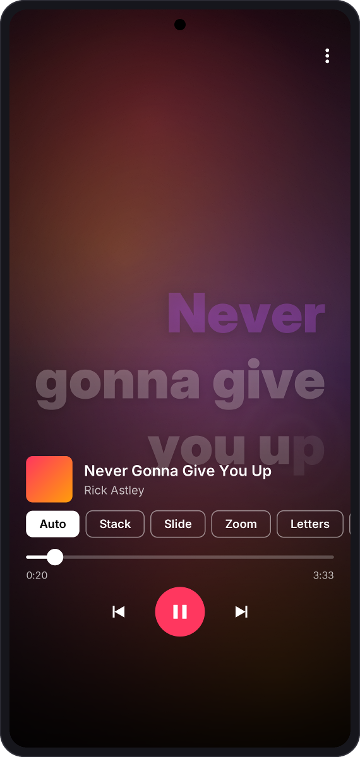
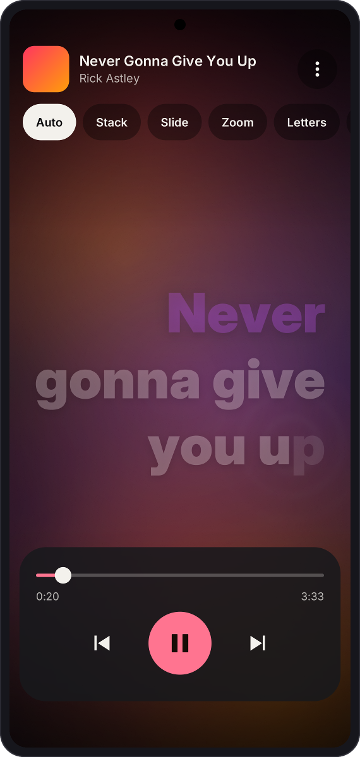
README: fixed latest-APK link and new controls and settings mockups
Releases now also carry the APK as LyricStage.apk, so
releases/latest/download/LyricStage.apk always serves the newest
version; an existing release without it gets the copy on the next
workflow run. The README links there. The controls and settings
mockups are redrawn in the new design with Never Gonna Give You Up
playing.

Claude-Session: https://claude.ai/code/session_01MLXWG1CmD9ZGWnpi2j6esJ

diff --git a/tools/screenshots/src/Render.kt b/tools/screenshots/src/Render.kt
@@ -399,91 +399,271 @@ fun renderStage(s: Shot, dim: Float = 1f): BufferedImage {
     return img
 }
 
+// colours of the screens around the stage, as in ui/theme/Ui.kt
+val UI_GROUND = Color(0x0B, 0x0B, 0x0D)
+val UI_CARD = Color(0x17, 0x18, 0x1C)
+val UI_RAISED = Color(0x26, 0x27, 0x2D)
+val UI_LINE = Color(0x3A, 0x3B, 0x42)
+val UI_TEXT = Color(0xF3, 0xF1, 0xEC)
+val UI_MUTED = Color(0xA7, 0xA6, 0xAE)
+val UI_ON_ACCENT = Color(0x16, 0x0C, 0x07)
+
+/** The UI accent, as Ui.accent(): the album's first accent, lifted when too dark for dark text. */
+fun uiAccent(pal: Pal): Color {
+    val c = pal.accents[0]
+    val l = Colour.luminance(c).toFloat()
+    if (l >= 0.35f) return hex(c)
+    val t = ((0.35f - l) / 0.65f + 0.15f).coerceIn(0f, 0.7f)
+    return Color(
+        (Colour.red(c) + (255 - Colour.red(c)) * t).toInt(),
+        (Colour.green(c) + (255 - Colour.green(c)) * t).toInt(),
+        (Colour.blue(c) + (255 - Colour.blue(c)) * t).toInt(),
+    )
+}
+
+private fun Graphics2D.pill(x: Float, y: Float, w: Float, h: Float, fill: Color?, stroke: Color? = null, dp: Float = 2.625f) {
+    val r = RoundRectangle2D.Float(x, y, w, h, h, h)
+    if (fill != null) { color = fill; fill(r) }
+    if (stroke != null) { color = stroke; this.stroke = BasicStroke(1f * dp); draw(r) }
+}
+
+private fun Graphics2D.centred(text: String, cx: Float, baseline: Float) {
+    drawString(text, cx - fontMetrics.stringWidth(text) / 2f, baseline)
+}
+
+private fun Graphics2D.moreDots(cx: Float, cy: Float, dp: Float, c: Color) {
+    color = c
+    for (i in -1..1) fill(Ellipse2D.Float(cx - 2.2f * dp, cy + i * 7 * dp - 2.2f * dp, 4.4f * dp, 4.4f * dp))
+}
+
+/** Artwork stand-in: the album's accents, as a soft square. */
+private fun Graphics2D.art(x: Float, y: Float, size: Float, radius: Float, pal: Pal) {
+    paint = GradientPaint(x, y, hex(pal.accents[0]), x + size, y + size, hex(pal.accents[1]))
+    fill(RoundRectangle2D.Float(x, y, size, size, radius, radius))
+}
+
 /** Controls overlay, drawn to the same proportions as ControlsOverlay.kt (2.625 px per dp). */
 fun renderControls(base: BufferedImage, pal: Pal): BufferedImage {
     val dp = 2.625f
+    val accent = uiAccent(pal)
     val img = BufferedImage(W, H, BufferedImage.TYPE_INT_ARGB)
     val g = img.createGraphics()
     g.hq()
     g.drawImage(base, 0, 0, null)
-    g.paint = GradientPaint(0f, H * 0.45f, Color(0, 0, 0, 0), 0f, H.toFloat(), Color(0, 0, 0, 217))
-    g.fillRect(0, 0, W, H)
-    val pad = 20 * dp
-    // settings menu: three dots in the top right, as in MoreButton
-    g.color = Color.WHITE
-    val dotR = 2.2f * dp
-    val dx = W - 8 * dp - 8 * dp - 12 * dp
-    for (i in 0..2) {
-        val cy = 24 * dp + 8 * dp + 24 * dp * (0.22f + i * 0.28f) + 12 * dp
-        g.fill(Ellipse2D.Float(dx - dotR, cy - dotR, dotR * 2, dotR * 2))
-    }
-    var y = H - 72 * dp - 280 * dp
+    g.paint = GradientPaint(0f, 0f, Color(0, 0, 0, 140), 0f, H * 0.3f, Color(0, 0, 0, 0))
+    g.fillRect(0, 0, W, (H * 0.3f).toInt())
+    g.paint = GradientPaint(0f, H * 0.7f, Color(0, 0, 0, 0), 0f, H.toFloat(), Color(0, 0, 0, 115))
+    g.fillRect(0, (H * 0.7f).toInt(), W, H - (H * 0.7f).toInt())
 
-    // artwork thumb, title, artist, settings
-    val thumb = 56 * dp
-    g.paint = GradientPaint(pad, y, hex(pal.accents[0]), pad + thumb, y + thumb, hex(pal.accents[1]))
-    g.fill(RoundRectangle2D.Float(pad, y, thumb, thumb, 16 * dp, 16 * dp))
-    g.color = Color.WHITE
-    g.font = fSemi.deriveFont(18 * dp)
-    g.drawString("Never Gonna Give You Up", pad + thumb + 14 * dp, y + 24 * dp)
-    g.color = Color(255, 255, 255, 178)
+    // top: artwork, title, artist, settings
+    val pad = 16 * dp
+    var y = 44 * dp
+    g.art(pad, y, 56 * dp, 28 * dp, pal)
+    g.color = UI_TEXT
+    g.font = fSemi.deriveFont(17 * dp)
+    g.drawString("Never Gonna Give You Up", pad + 68 * dp, y + 24 * dp)
+    g.color = Color(0xF3, 0xF1, 0xEC, 184)
     g.font = fRegular.deriveFont(14 * dp)
-    g.drawString("Rick Astley", pad + thumb + 14 * dp, y + 46 * dp)
-    y += thumb + 10 * dp
+    g.drawString("Rick Astley", pad + 68 * dp, y + 44 * dp)
+    g.color = Color(0, 0, 0, 90)
+    g.fill(Ellipse2D.Float(W - pad - 48 * dp, y + 4 * dp, 48 * dp, 48 * dp))
+    g.moreDots(W - pad - 24 * dp, y + 28 * dp, dp, UI_TEXT)
+    y += 56 * dp + 14 * dp
 
-    // template chips
+    // layout pills
     var x = pad
-    y += 16 * dp
     g.font = fSemi.deriveFont(14 * dp)
-    for ((i, label) in listOf("Auto", "Stack", "Slide", "Zoom", "Letters", "Scatter").withIndex()) {
+    for ((i, label) in listOf("Auto", "Stack", "Slide", "Zoom", "Letters", "Scatter", "Graph").withIndex()) {
         val tw = g.fontMetrics.stringWidth(label) + 32 * dp
-        val chip = RoundRectangle2D.Float(x, y - 16 * dp, tw, 32 * dp, 16 * dp, 16 * dp)
-        if (i == 0) {
-            g.color = Color.WHITE; g.fill(chip); g.color = Color.BLACK
-        } else {
-            g.color = Color(255, 255, 255, 120); g.stroke = BasicStroke(1.2f * dp); g.draw(chip); g.color = Color.WHITE
-        }
-        g.drawString(label, x + 16 * dp, y + 5 * dp)
+        if (i == 0) g.pill(x, y, tw, 44 * dp, UI_TEXT) else g.pill(x, y, tw, 44 * dp, Color(0, 0, 0, 90))
+        g.color = if (i == 0) UI_GROUND else UI_TEXT
+        g.drawString(label, x + 16 * dp, y + 27.5f * dp)
         x += tw + 8 * dp
     }
-    y += 40 * dp
 
-
-    // seek bar
-    val trackW = W - pad * 2
+    // bottom card: seek bar, times, transport
+    val cardX = 12 * dp
+    val cardW = W - cardX * 2
+    val cardH = 186 * dp
+    val cardY = H - 36 * dp - 20 * dp - cardH
+    g.color = Color(0x17, 0x18, 0x1C, 220)
+    g.fill(RoundRectangle2D.Float(cardX, cardY, cardW, cardH, 64 * dp, 64 * dp))
+    val inX = cardX + 20 * dp
+    val trackW = cardW - 40 * dp
+    var cy = cardY + 34 * dp
     val prog = 0.094f
-    g.color = Color(255, 255, 255, 60)
-    g.fill(RoundRectangle2D.Float(pad, y - 2 * dp, trackW, 4 * dp, 4 * dp, 4 * dp))
-    g.color = Color.WHITE
-    g.fill(RoundRectangle2D.Float(pad, y - 2 * dp, trackW * prog, 4 * dp, 4 * dp, 4 * dp))
-    g.fill(Ellipse2D.Float(pad + trackW * prog - 10 * dp, y - 10 * dp, 20 * dp, 20 * dp))
-    y += 26 * dp
-    g.color = Color(255, 255, 255, 178)
-    g.font = fRegular.deriveFont(12 * dp)
-    g.drawString("0:20", pad, y)
+    g.color = Color(0xF3, 0xF1, 0xEC, 64)
+    g.fill(RoundRectangle2D.Float(inX, cy - 2 * dp, trackW, 4 * dp, 4 * dp, 4 * dp))
+    g.color = accent
+    g.fill(RoundRectangle2D.Float(inX, cy - 2 * dp, trackW * prog, 4 * dp, 4 * dp, 4 * dp))
+    g.color = UI_TEXT
+    g.fill(Ellipse2D.Float(inX + trackW * prog - 10 * dp, cy - 10 * dp, 20 * dp, 20 * dp))
+    cy += 30 * dp
+    g.color = Color(0xF3, 0xF1, 0xEC, 184)
+    g.font = fRegular.deriveFont(13 * dp)
+    g.drawString("0:20", inX, cy)
     val tot = "3:33"
-    g.drawString(tot, W - pad - g.fontMetrics.stringWidth(tot), y)
-    y += 40 * dp
+    g.drawString(tot, inX + trackW - g.fontMetrics.stringWidth(tot), cy)
+    cy += 52 * dp
 
-    // transport: previous, play/pause, next
     val mid = W / 2f
-    g.color = hex(0xFFFF375F.toInt())
-    g.fill(Ellipse2D.Float(mid - 30 * dp, y - 30 * dp, 60 * dp, 60 * dp))
-    g.color = Color.WHITE
-    val bar = 5.3f * dp
-    g.fill(RoundRectangle2D.Float(mid - 8 * dp, y - 8.4f * dp, bar, 16.8f * dp, 2f, 2f))
-    g.fill(RoundRectangle2D.Float(mid + 2.7f * dp, y - 8.4f * dp, bar, 16.8f * dp, 2f, 2f))
+    g.color = accent
+    g.fill(Ellipse2D.Float(mid - 38 * dp, cy - 38 * dp, 76 * dp, 76 * dp))
+    g.color = UI_ON_ACCENT
+    val bar = 7f * dp
+    g.fill(RoundRectangle2D.Float(mid - 10 * dp, cy - 11 * dp, bar, 22 * dp, 3f, 3f))
+    g.fill(RoundRectangle2D.Float(mid + 3 * dp, cy - 11 * dp, bar, 22 * dp, 3f, 3f))
     fun tri(x0: Float, y0: Float, x1: Float, y1: Float, x2: Float, y2: Float) {
         val path = java.awt.geom.Path2D.Float()
         path.moveTo(x0, y0); path.lineTo(x1, y1); path.lineTo(x2, y2); path.closePath()
         g.fill(path)
     }
-    val px = mid - 74 * dp
-    g.fillRect((px - 7 * dp).toInt(), (y - 7 * dp).toInt(), (2.4f * dp).toInt(), (14.4f * dp).toInt())
-    tri(px + 7 * dp, y - 7 * dp, px + 7 * dp, y + 7 * dp, px - 5 * dp, y)
-    val nx = mid + 74 * dp
-    g.fillRect((nx + 5 * dp).toInt(), (y - 7 * dp).toInt(), (2.4f * dp).toInt(), (14.4f * dp).toInt())
-    tri(nx - 7 * dp, y - 7 * dp, nx - 7 * dp, y + 7 * dp, nx + 5 * dp, y)
+    g.color = UI_TEXT
+    val px = mid - 38 * dp - 28 * dp - 28 * dp
+    g.fillRect((px - 9 * dp).toInt(), (cy - 9 * dp).toInt(), (3f * dp).toInt(), (18f * dp).toInt())
+    tri(px + 9 * dp, cy - 9 * dp, px + 9 * dp, cy + 9 * dp, px - 5 * dp, cy)
+    val nx = mid + 38 * dp + 28 * dp + 28 * dp
+    g.fillRect((nx + 6 * dp).toInt(), (cy - 9 * dp).toInt(), (3f * dp).toInt(), (18f * dp).toInt())
+    tri(nx - 9 * dp, cy - 9 * dp, nx - 9 * dp, cy + 9 * dp, nx + 5 * dp, cy)
+    g.dispose()
+    return img
+}
+
+/** Settings, drawn to the proportions of SettingsScreen.kt: the song card, Look and switches. */
+fun renderSettings(pal: Pal): BufferedImage {
+    val dp = 2.625f
+    val accent = uiAccent(pal)
+    val img = BufferedImage(W, H, BufferedImage.TYPE_INT_ARGB)
+    val g = img.createGraphics()
+    g.hq()
+    g.color = UI_GROUND
+    g.fillRect(0, 0, W, H)
+    val pad = 16 * dp
+    val inner = W - pad * 2
+    var y = 44 * dp
+
+    // header
+    g.color = UI_CARD
+    g.fill(Ellipse2D.Float(pad, y, 48 * dp, 48 * dp))
+    g.color = UI_TEXT
+    g.stroke = BasicStroke(2.2f * dp, BasicStroke.CAP_ROUND, BasicStroke.JOIN_ROUND)
+    g.draw(Line2D.Float(pad + 27 * dp, y + 17 * dp, pad + 20 * dp, y + 24 * dp))
+    g.draw(Line2D.Float(pad + 20 * dp, y + 24 * dp, pad + 27 * dp, y + 31 * dp))
+    g.font = fBlack.getValue(Script.LATIN).deriveFont(30 * dp)
+    g.drawString("Settings", pad + 64 * dp, y + 35 * dp)
+    y += 48 * dp + 16 * dp
+
+    // this song
+    val cardH = 270 * dp
+    g.color = UI_CARD
+    g.fill(RoundRectangle2D.Float(pad, y, inner, cardH, 48 * dp, 48 * dp))
+    val cx = pad + 16 * dp
+    var cy = y + 16 * dp
+    g.art(cx, cy, 64 * dp, 32 * dp, pal)
+    g.color = UI_TEXT
+    g.font = fSemi.deriveFont(18 * dp)
+    g.drawString("Never Gonna Give You Up", cx + 78 * dp, cy + 20 * dp)
+    g.color = UI_MUTED
+    g.font = fRegular.deriveFont(14 * dp)
+    g.drawString("Rick Astley", cx + 78 * dp, cy + 40 * dp)
+    g.font = fSemi.deriveFont(12 * dp)
+    var tx = cx + 78 * dp
+    for (tag in listOf("Musixmatch", "Word timed")) {
+        val tw = g.fontMetrics.stringWidth(tag) + 20 * dp
+        g.pill(tx, cy + 48 * dp, tw, 22 * dp, UI_RAISED)
+        g.color = UI_TEXT
+        g.drawString(tag, tx + 10 * dp, cy + 63.5f * dp)
+        tx += tw + 6 * dp
+    }
+    cy += 64 * dp + 18 * dp + 16 * dp
+    g.font = fSemi.deriveFont(15 * dp)
+    g.color = UI_TEXT
+    g.drawString("Sync", cx, cy)
+    g.color = accent
+    val off = "+0.00 s"
+    g.drawString(off, cx + inner - 32 * dp - g.fontMetrics.stringWidth(off), cy)
+    cy += 12 * dp
+    val bw = (inner - 32 * dp - 16 * dp) / 3f
+    for ((i, label) in listOf("Earlier", "Reset", "Later").withIndex()) {
+        val bx = cx + i * (bw + 8 * dp)
+        if (i == 1) g.pill(bx, cy, bw, 48 * dp, null, UI_LINE) else g.pill(bx, cy, bw, 48 * dp, UI_RAISED)
+        g.color = if (i == 1) UI_MUTED else UI_TEXT
+        g.centred(label, bx + bw / 2f, cy + 29.5f * dp)
+    }
+    cy += 48 * dp + 10 * dp
+    g.pill(cx, cy, inner - 32 * dp, 48 * dp, accent)
+    g.color = UI_ON_ACCENT
+    g.centred("Import .lrc file", cx + (inner - 32 * dp) / 2f, cy + 29.5f * dp)
+    y += cardH
+
+    fun header(text: String) {
+        y += 24 * dp + 13 * dp
+        g.color = UI_MUTED
+        g.font = fSemi.deriveFont(13 * dp)
+        g.drawString(text.uppercase(), pad + 4 * dp, y)
+        y += 10 * dp
+    }
+
+    // look
+    header("Look")
+    val lookH = 212 * dp
+    g.color = UI_CARD
+    g.fill(RoundRectangle2D.Float(pad, y, inner, lookH, 48 * dp, 48 * dp))
+    cy = y + 16 * dp + 15 * dp
+    g.color = UI_TEXT
+    g.font = fSemi.deriveFont(15 * dp)
+    g.drawString("Layout", cx, cy)
+    cy += 10 * dp
+    var px = cx
+    g.font = fSemi.deriveFont(14 * dp)
+    for ((i, label) in listOf("Auto", "Stack", "Slide", "Zoom").withIndex()) {
+        val tw = g.fontMetrics.stringWidth(label) + 32 * dp
+        if (i == 0) g.pill(px, cy, tw, 44 * dp, accent) else g.pill(px, cy, tw, 44 * dp, null, UI_LINE)
+        g.color = if (i == 0) UI_ON_ACCENT else UI_TEXT
+        g.drawString(label, px + 16 * dp, cy + 27.5f * dp)
+        px += tw + 8 * dp
+    }
+    cy += 44 * dp + 20 * dp + 15 * dp
+    g.color = UI_TEXT
+    g.font = fSemi.deriveFont(15 * dp)
+    g.drawString("Background", cx, cy)
+    cy += 10 * dp
+    val segW = inner - 32 * dp
+    g.pill(cx, cy, segW, 52 * dp, UI_GROUND)
+    val sw = (segW - 8 * dp - 8 * dp) / 3f
+    g.font = fSemi.deriveFont(14 * dp)
+    for ((i, label) in listOf("Liquid", "Artwork", "Solid").withIndex()) {
+        val sx = cx + 4 * dp + i * (sw + 4 * dp)
+        if (i == 0) g.pill(sx, cy + 4 * dp, sw, 44 * dp, UI_TEXT)
+        g.color = if (i == 0) UI_GROUND else UI_MUTED
+        g.centred(label, sx + sw / 2f, cy + 31.5f * dp)
+    }
+    y += lookH
+
+    // motion and battery
+    header("Motion and battery")
+    val rows = listOf(
+        Triple("Battery saver", "Black background, simple fades", false),
+        Triple("Audio sync", "Listens through the microphone", true),
+    )
+    val rowsH = 72 * dp * rows.size
+    g.color = UI_CARD
+    g.fill(RoundRectangle2D.Float(pad, y, inner, rowsH, 48 * dp, 48 * dp))
+    for ((i, r) in rows.withIndex()) {
+        val ry = y + i * 72 * dp
+        if (i > 0) { g.color = UI_RAISED; g.fillRect(cx.toInt(), ry.toInt(), (inner - 32 * dp).toInt(), (1 * dp).toInt()) }
+        g.color = UI_TEXT
+        g.font = fSemi.deriveFont(16 * dp)
+        g.drawString(r.first, cx, ry + 32 * dp)
+        g.color = UI_MUTED
+        g.font = fRegular.deriveFont(13 * dp)
+        g.drawString(r.second, cx, ry + 52 * dp)
+        val sx = pad + inner - 16 * dp - 52 * dp
+        val sy = ry + 20 * dp
+        g.pill(sx, sy, 52 * dp, 32 * dp, if (r.third) accent else UI_LINE)
+        g.color = if (r.third) UI_ON_ACCENT else UI_TEXT
+        g.fill(Ellipse2D.Float(sx + (if (r.third) 24 else 4) * dp, sy + 4 * dp, 24 * dp, 24 * dp))
+    }
     g.dispose()
     return img
 }
@@ -553,6 +733,9 @@ fun main() {
     val controls = phone(renderControls(ctrlBase, sunset))
     phones["controls"] = controls
     save(scale(controls, 360), "controls.png")
+    val settings = phone(renderSettings(sunset))
+    phones["settings"] = settings
+    save(scale(settings, 360), "settings.png")
 
     // hero: four phones on a dark band
     val hero = listOf("stack", "graph", "flow", "zoom").map { scale(phones.getValue(it), 300) }

diff --git a/README.md b/README.md
@@ -4,7 +4,7 @@ LyricStage shows word-synced lyrics for whatever is playing on your Android phon
 
 ![LyricStage showing lyrics in four layouts](docs/screenshots/hero.png)
 
-**[Download the latest release](https://github.com/Saptarshi-Nag189/lyric-stage/releases/latest)** (APK, Android 10 or later)
+**[Download LyricStage](https://github.com/Saptarshi-Nag189/lyric-stage/releases/latest/download/LyricStage.apk)** (APK, Android 10 or later). This link always gives the newest version; past versions are on the [releases page](https://github.com/Saptarshi-Nag189/lyric-stage/releases).
 
 ## Features
 
@@ -28,15 +28,17 @@ LyricStage shows word-synced lyrics for whatever is playing on your Android phon
 | **Flow** | **Letters** | **Scatter** |
 | ![Flow layout with Japanese lyrics and a romanised line](docs/screenshots/stage-flow.png) | ![Letters layout with Bengali lyrics](docs/screenshots/stage-letters.png) | ![Scatter layout](docs/screenshots/stage-scatter.png) |
 
-<p align="center"><img src="docs/screenshots/controls.png" width="300" alt="Controls overlay with seek bar, playback buttons and layout picker"></p>
+| Controls | Settings |
+|:---:|:---:|
+| <img src="docs/screenshots/controls.png" width="300" alt="Controls over the stage: song and layout pills at the top, seek bar and playback buttons in a card at the bottom"> | <img src="docs/screenshots/settings.png" width="300" alt="Settings with the playing song's card, sync buttons, layout and background choices and switches"> |
 
-Tap the stage to show the controls for three seconds: seek bar, play and pause, skip and the layout picker. The lyrics fade back while the controls are open.
+Tap the stage to show the controls for three seconds: the song and the layout pills at the top, and the seek bar, play and pause and skip in a card at the bottom. The lyrics fade back while the controls are open. The buttons and switches take their colour from the album art.
 
 The images above are drawn by the app's own layout engine (`core`) with the bundled fonts. The background is an approximation of the shader. The lyric lines are short excerpts quoted to show the layouts: Rick Astley, "Never Gonna Give You Up"; Arijit Singh, "Tum Hi Ho"; Kenshi Yonezu, "Lemon"; Rabindranath Tagore, "Ekla Chalo Re"; Eminem, "Lose Yourself". `tools/screenshots/render.sh` regenerates them.
 
 ## Install
 
-1. Download `LyricStage-vX.Y.Z.apk` from the [releases page](https://github.com/Saptarshi-Nag189/lyric-stage/releases) and open it on your phone.
+1. Download [LyricStage.apk](https://github.com/Saptarshi-Nag189/lyric-stage/releases/latest/download/LyricStage.apk) and open it on your phone.
 2. Open LyricStage and tap "Open notification access". Turn LyricStage on in the list and go back.
 3. Play a song in any music app.
 
